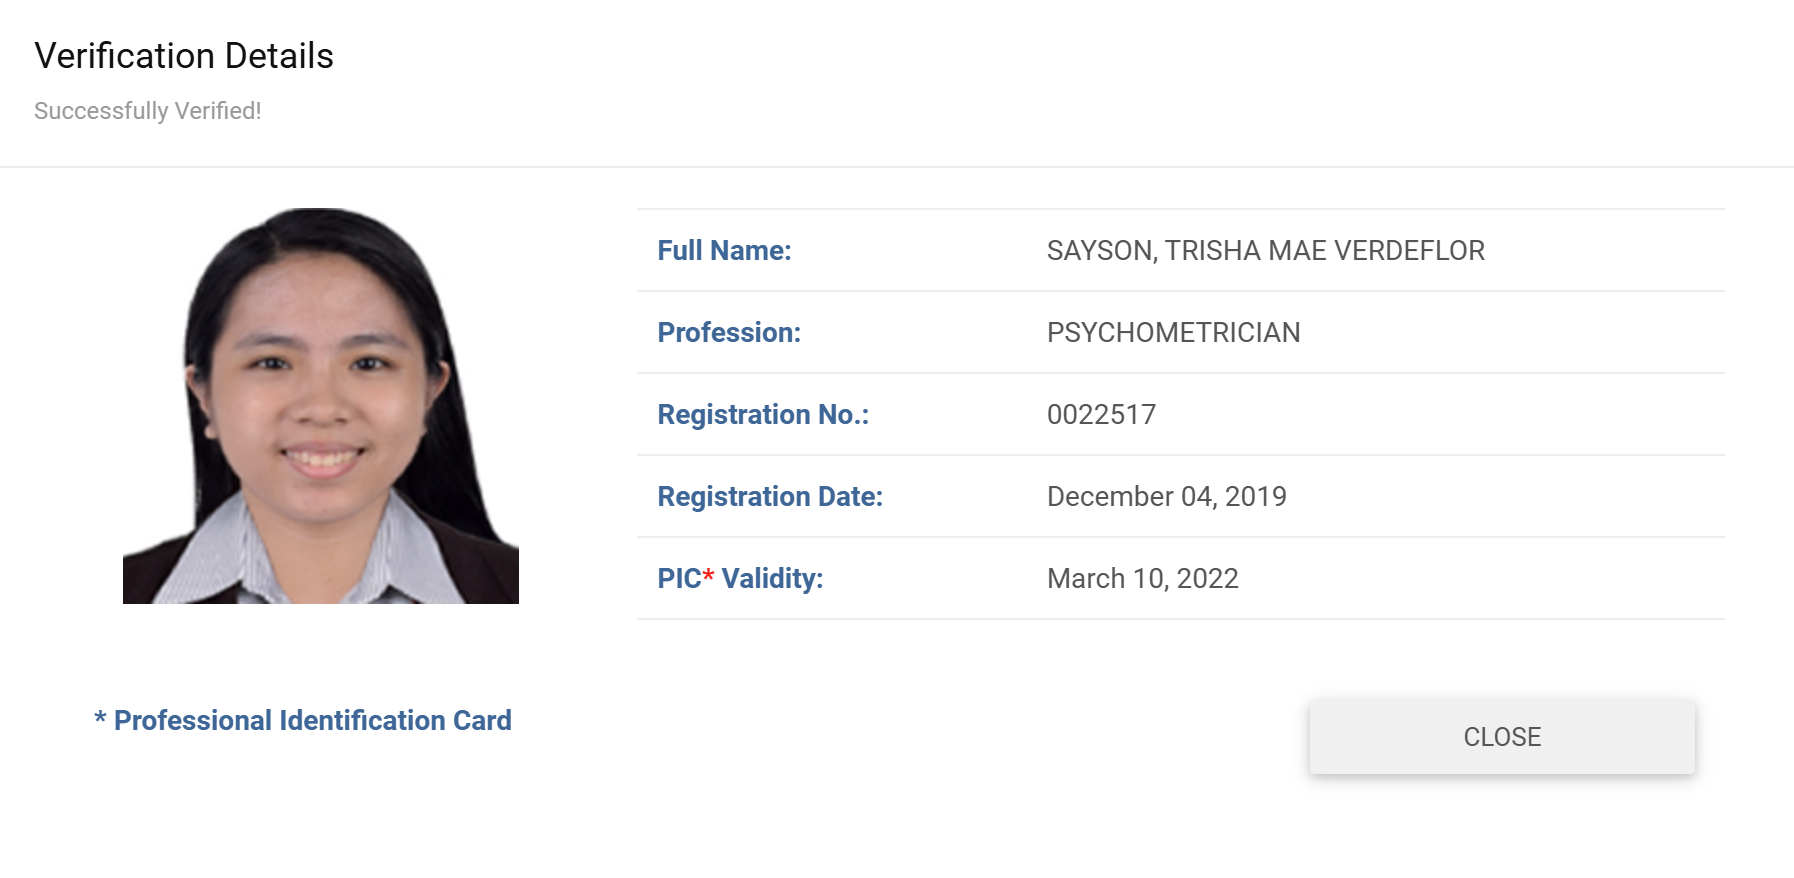
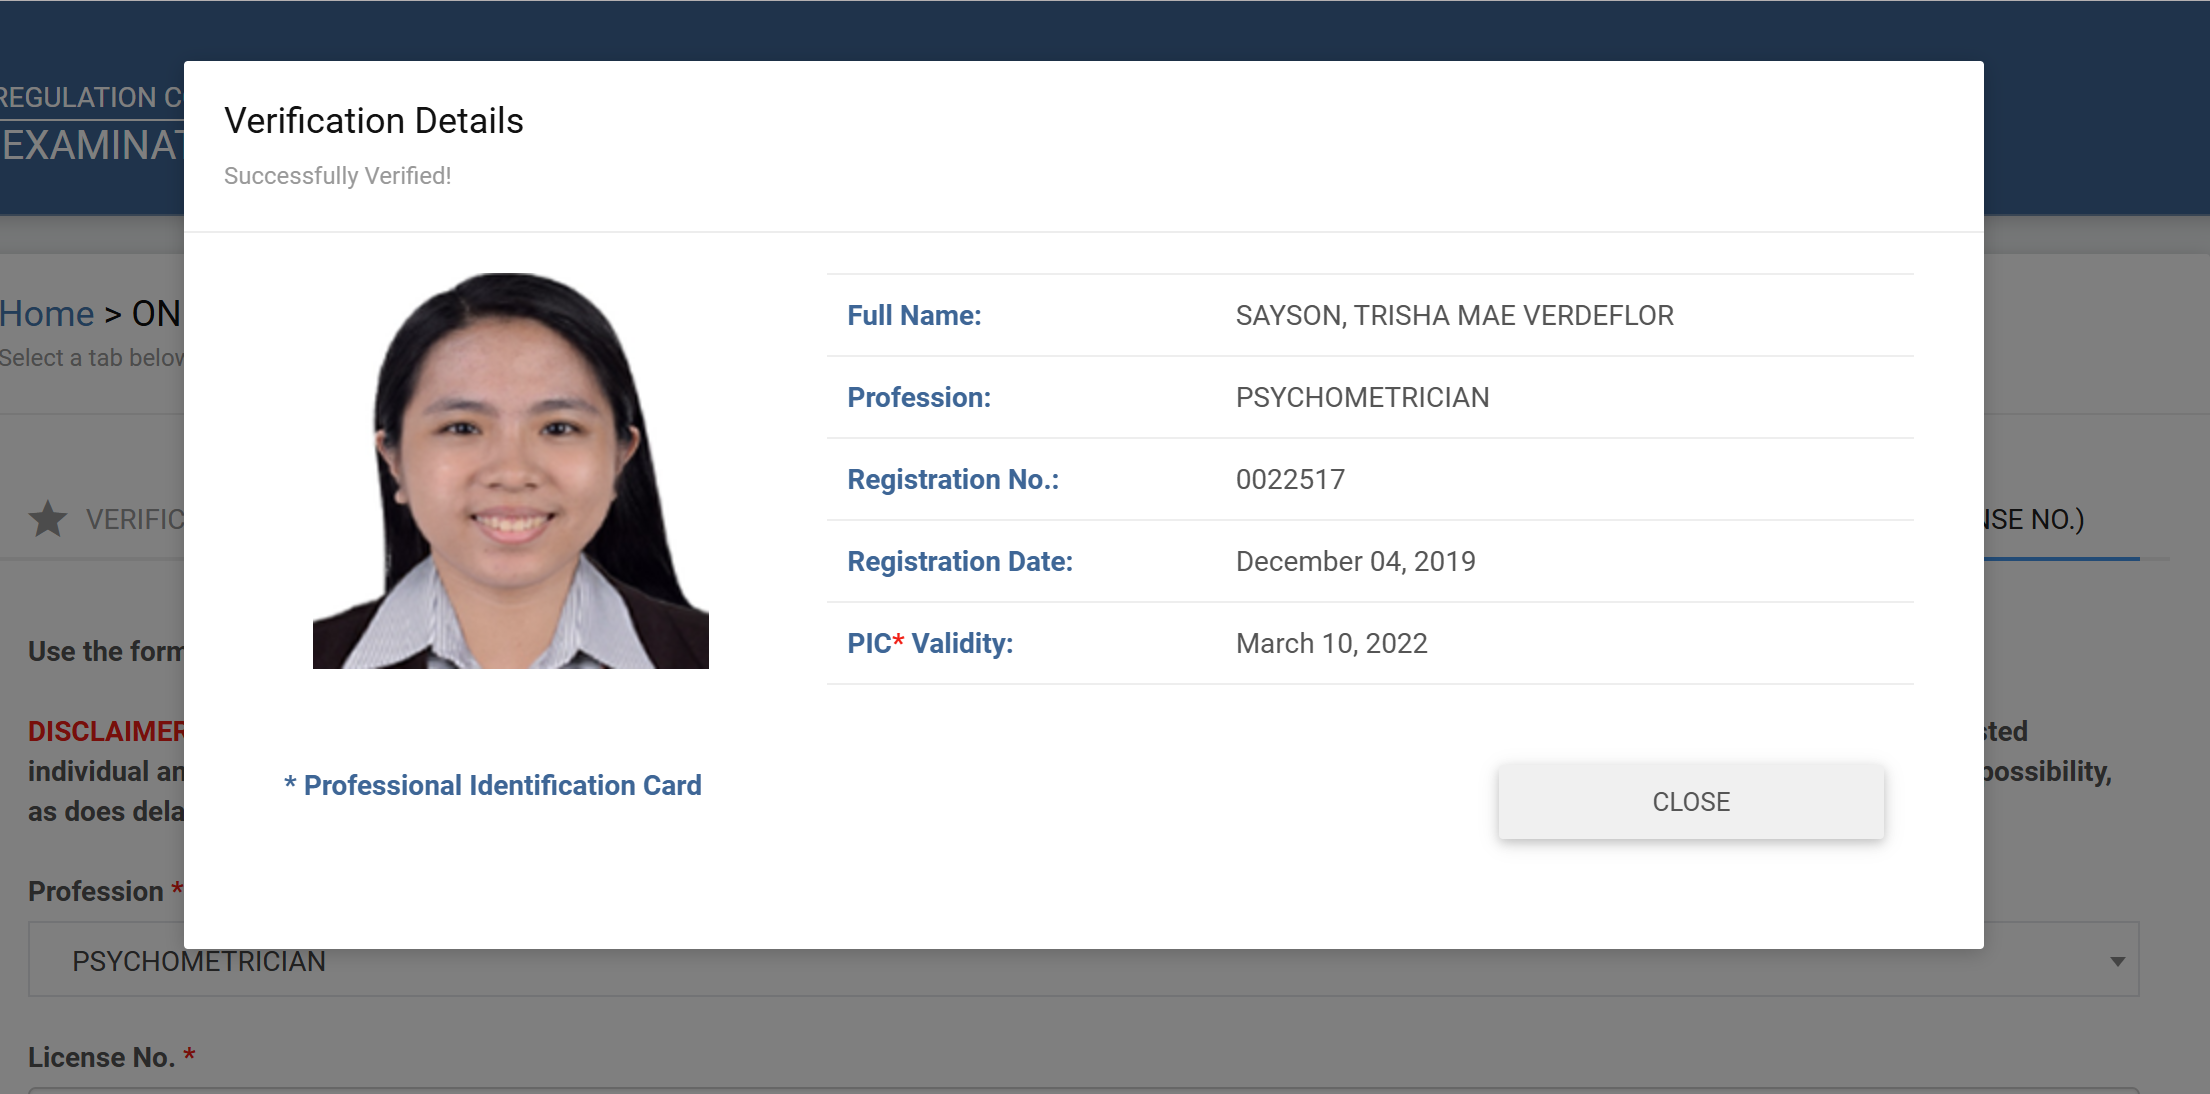
updated photo and format

diff --git a/Home/style.css b/Home/style.css
@@ -459,14 +459,17 @@ p {
   box-shadow: 0 4px 10px rgba(115, 100, 138, 0.2);
   transition: transform 0.3s ease, box-shadow 0.3s ease;
   display: flex;
-  gap: 40px;
+  gap: 20px;
   align-items: flex-start;
+}
+
+#achievement h2 {
+  margin-bottom: 1.5rem;  /* closer to the photos */
 }
 
 /* Text details */
 .achievement-details {
-  flex: 1;
-  padding: 20px 30px;
+  padding: 10px 15px;
 }
 
 .achievement-details .highlight {
